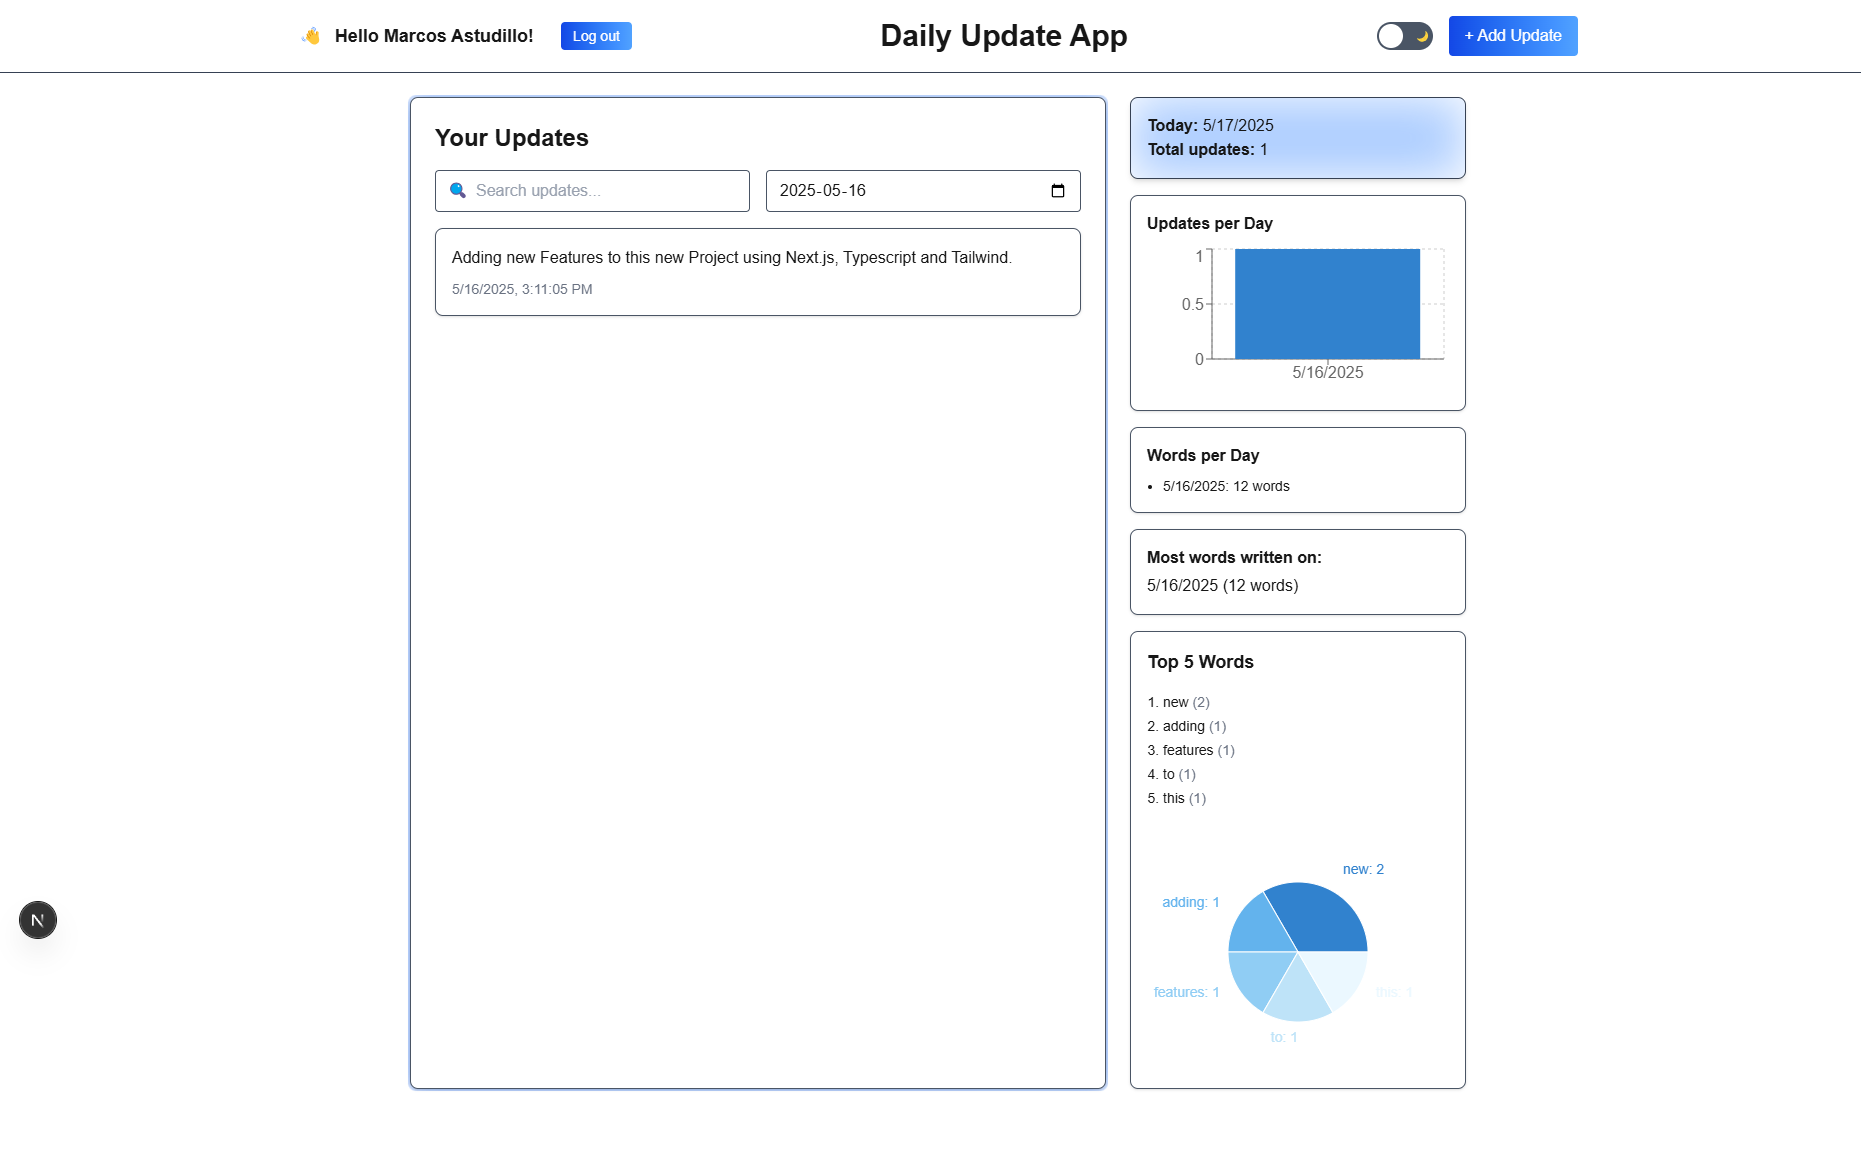
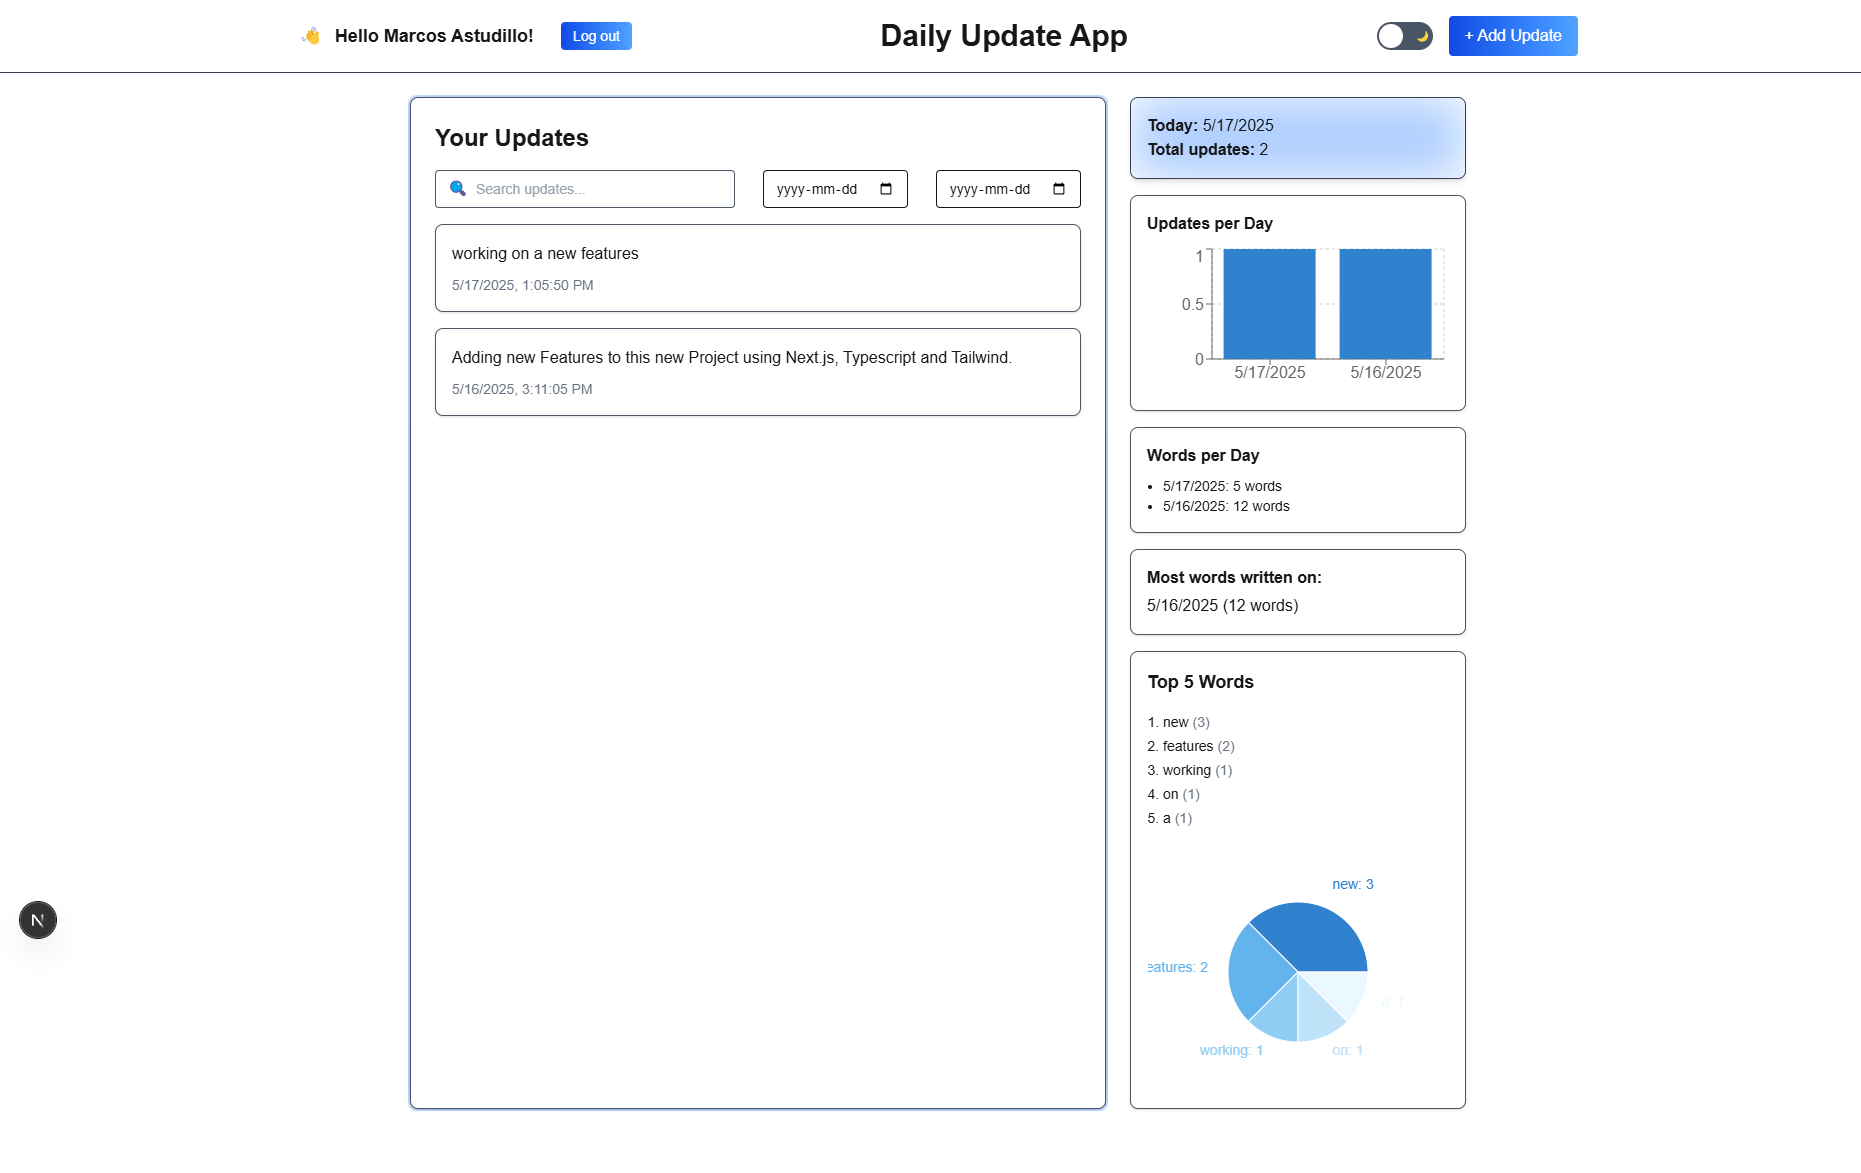
feat(dashboard): added date range filter with auto-refresh and improved layout

diff --git a/src/components/DashboardView.tsx b/src/components/DashboardView.tsx
@@ -63,12 +63,15 @@ export default function Dashboard({ refresh, onAddClick }: Props) {
           let filtered = data;
 
           if (startDate && endDate) {
-            const start = new Date(startDate).toDateString();
-            const end = new Date(endDate).toDateString();
+            const start = startDate;
+            const end = endDate;
+            console.log('====> start', start);
+            console.log('====> end', end);
 
             filtered = data.filter((u) => {
-              const created = new Date(u.createdAt).toDateString();
-              return created >= start && created <= end;            
+              const created = new Date(u.createdAt);
+              const createdDate = created.toISOString().slice(0, 10); // yyyy-mm-dd
+              return createdDate >= start && createdDate <= end;
             });
           }
 
@@ -129,9 +132,12 @@ export default function Dashboard({ refresh, onAddClick }: Props) {
     count,
   }))
 
-  const applyDateFilter = () => {
-    setRefreshFlag(!refreshFlag); // Triggers fetchUpdates again
-  };
+  useEffect(() => {
+    if (startDate && endDate) {
+      setRefreshFlag(prev => !prev);
+    }
+  }, [startDate, endDate]);
+
 
   return (
     <main className="min-h-screen p-6 bg-[var(--background)] text-[var(--foreground)] transition-colors">
@@ -146,45 +152,37 @@ export default function Dashboard({ refresh, onAddClick }: Props) {
           {/* Main Content */}
           <div className="relative z-10 flex-grow bg-[var(--background)] text-[var(--foreground)] p-6 rounded-lg shadow border border-gray-300 dark:border-gray-600 w-full flex flex-col">
             <h1 className="text-2xl font-bold mb-4">Your Updates</h1>
-            <div className="grid grid-cols-4 gap-2 items-center mb-4">
-  {/* Search input */}
-  <div className="relative col-span-1">
-    <input
-      type="text"
-      value={filter}
-      onChange={(e) => setFilter(e.target.value)}
-      placeholder="Search updates..."
-      className="w-full pl-10 pr-4 py-2 rounded border border-gray-300 dark:border-gray-600 bg-[var(--background)] text-[var(--foreground)] placeholder-gray-400 focus:outline-none focus:ring-2 focus:ring-blue-500 transition text-sm"
-    />
-    <span className="absolute left-3 top-1/2 -translate-y-1/2 text-gray-400 pointer-events-none">
-      🔍
-    </span>
-  </div>
+            <div className="flex flex-wrap items-center justify-between gap-2 w-full mb-4">
+              {/* Search input */}
+              <div className="relative flex-grow max-w-[300px]">
+                <input
+                  type="text"
+                  value={filter}
+                  onChange={(e) => setFilter(e.target.value)}
+                  placeholder="Search updates..."
+                  className="w-full pl-10 pr-4 py-2 rounded border border-gray-300 dark:border-gray-600 bg-[var(--background)] text-[var(--foreground)] placeholder-gray-400 focus:outline-none focus:ring-2 focus:ring-blue-500 transition text-sm"
+                />
+                <span className="absolute left-3 top-1/2 -translate-y-1/2 text-gray-400 pointer-events-none">
+                  🔍
+                </span>
+              </div>
 
-  {/* Start date */}
-  <input
-    type="date"
-    value={startDate}
-    onChange={(e) => setStartDate(e.target.value)}
-    className="col-span-1 border px-3 py-2 rounded text-sm bg-[var(--background)] text-[var(--foreground)]"
-    />
+              {/* Start date */}
+              <input
+                type="date"
+                value={startDate}
+                onChange={(e) => setStartDate(e.target.value)}
+                className="col-span-1 border px-3 py-2 rounded text-sm bg-[var(--background)] text-[var(--foreground)]"
+              />
 
-  {/* End date */}
-  <input
-    type="date"
-    value={endDate}
-    onChange={(e) => setEndDate(e.target.value)}
-    className="col-span-1 border px-3 py-2 rounded text-sm bg-[var(--background)] text-[var(--foreground)]"
-    />
-
-  {/* Filter button */}
-  <button
-    onClick={applyDateFilter}
-    className="col-span-1 px-3 py-2 bg-blue-600 text-white rounded hover:bg-blue-700 text-sm"
-  >
-    Filter
-  </button>
-</div>
+              {/* End date */}
+              <input
+                type="date"
+                value={endDate}
+                onChange={(e) => setEndDate(e.target.value)}
+                className="col-span-1 border px-3 py-2 rounded text-sm bg-[var(--background)] text-[var(--foreground)]"
+              />
+            </div>
 
             {loading ? (
               <div className="space-y-4 flex-grow">
@@ -300,26 +298,25 @@ export default function Dashboard({ refresh, onAddClick }: Props) {
             </ol>
             {/* Chart */}
             <div className="flex justify-center items-center">
-              <ResponsiveContainer width={300} height={240}>
-                <PieChart>
-                  <Pie
-                    data={topWords.map(([word, count]) => ({ name: word, value: count }))}
-                    dataKey="value"
-                    nameKey="name"
-                    cx="50%"
-                    cy="50%"
-                    outerRadius={70}
-                    fill="#8884d8"
-                    label={({ name, value }) => `${name}: ${value}`}
-                    labelLine={false}
-                  >
-                    {topWords.map((_, index) => (
-                      <Cell key={`cell-${index}`} fill={COLORS[index % COLORS.length]} />
-                    ))}
-                  </Pie>
+              <div className="w-[300px] h-[240px] mx-auto">
+                <PieChart width={300} height={240}>                  <Pie
+                  data={topWords.map(([word, count]) => ({ name: word, value: count }))}
+                  dataKey="value"
+                  nameKey="name"
+                  cx="50%"
+                  cy="50%"
+                  outerRadius={70}
+                  fill="#8884d8"
+                  label={({ name, value }) => `${name}: ${value}`}
+                  labelLine={false}
+                >
+                  {topWords.map((_, index) => (
+                    <Cell key={`cell-${index}`} fill={COLORS[index % COLORS.length]} />
+                  ))}
+                </Pie>
                   <Tooltip />
                 </PieChart>
-              </ResponsiveContainer>
+              </div>
             </div>
           </div>
         </div>
